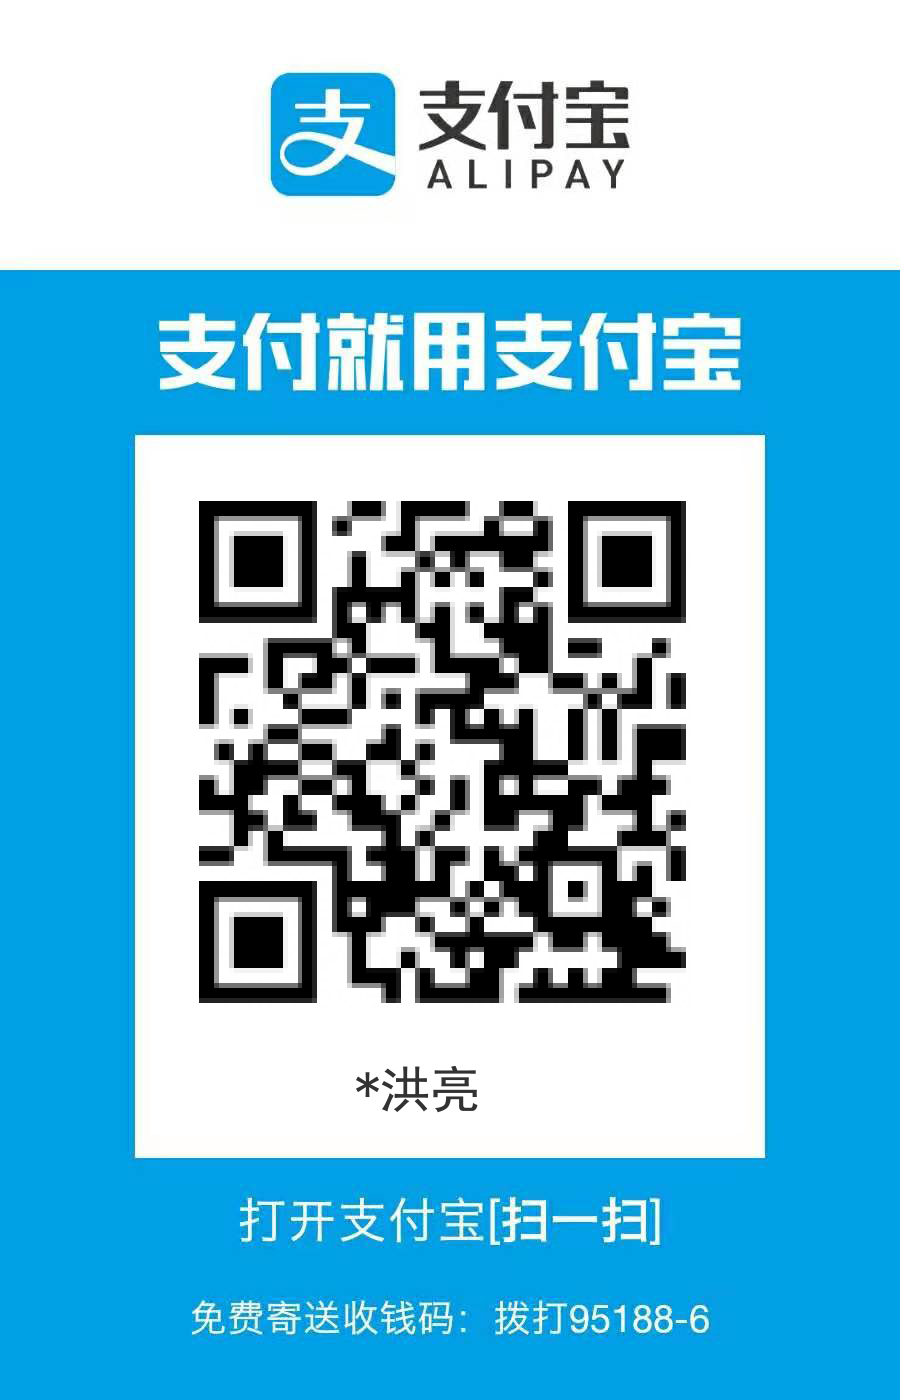
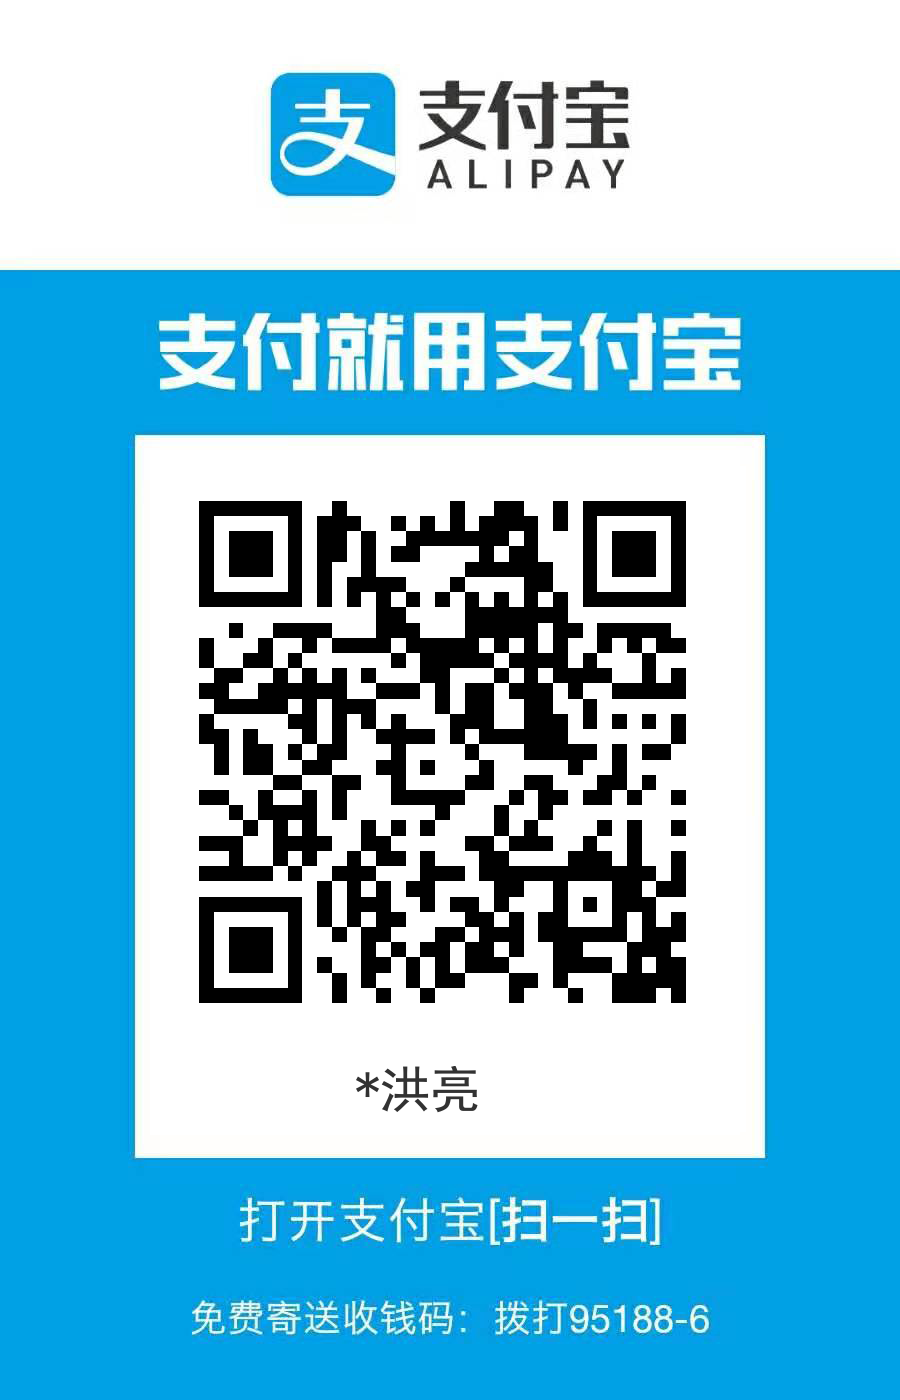
转账码

Changed region(s): [[0.2178, 0.3379, 0.7778, 0.7371]]

diff --git a/小爬虫/转账码生成/银行卡转账码/spider.py b/小爬虫/转账码生成/银行卡转账码/spider.py
@@ -155,31 +155,31 @@ class Spider:
     def run(self):
         # 隐藏卡号url
         # cardID 隐藏卡号 获取方法  https://zhuanlan.zhihu.com/p/65495172
-        # content = ['621492***0478', 'CEB', '何振华', '浦发银行', '1912051695611910620']
-        # _url = f'https://www.alipay.com/?appId=09999988&actionType=toCard&sourceId=bill&cardNo={content[0]}&' \
-        #        f'bankAccount={content[2]}&money=&amount=&bankMark={content[1]}&bankName={content[3]}&cardIndex={content[4]}&cardNoHidden=true&cardChannel=HISTORY_CARD&orderSource=from'
-        # print(_url)
+        content = ['621468***9469', 'BJBANK', '陈丽丽', '北京银行', '1603271394329096300']
+        _url = f'https://www.alipay.com/?appId=09999988&actionType=toCard&sourceId=bill&cardNo={content[0]}&' \
+               f'bankAccount={content[2]}&money=&amount=&bankMark={content[1]}&bankName={content[3]}&cardIndex={content[4]}&cardNoHidden=true&cardChannel=HISTORY_CARD&orderSource=from'
+        print(_url)
 
         # 普通转账url
-        content = self.read_txt()
+        # content = self.read_txt()
         # 新接口
-        _url = f'https://ds.alipay.com/?from=mobilecodec&scheme=alipays%3A%2F%2Fplatformapi%2Fstartapp%3FappId%3D20000200' \
-               f'%26actionType%3DtoCard%26sourceId=bill%26cardNo={content[1]}%26bankAccount={content[0]}%0A%26money=' \
-               f'%26amount=%26bankMark={content[3]}%26bankName={content[4]}%26cardNoHidden=true%26cardChannel=HISTORY_CARD%26orderSource=from'
-
+        # _url = f'https://ds.alipay.com/?from=mobilecodec&scheme=alipays%3A%2F%2Fplatformapi%2Fstartapp%3FappId%3D20000200' \
+        #        f'%26actionType%3DtoCard%26sourceId=bill%26cardNo={content[1]}%26bankAccount={content[0]}%0A%26money=' \
+        #        f'%26amount=%26bankMark={content[3]}%26bankName={content[4]}%26cardNoHidden=true%26cardChannel=HISTORY_CARD%26orderSource=from'
+        # 旧接口
         # _url = 'https://www.alipay.com/?appId=09999988&actionType=toCard&sourceId=bill&cardNo={}&bankAccount={}&' \
         #        'money=&amount=&bankMark={}&bankName={}&orderSource='.format(content[1], content[0], content[3], content[4])
-        print(_url)
+        # print(_url)
         # _url = quote(_url, string.printable)
         # print(_url)
-        _url = 'http://39.100.241.186/alipay/872dc84414ca11ea9aec28d2447ab52e'
+        _url = 'http://www.dongdongmeiche.com/alipay/6173c10d1d5911ea9aec28d2447ab52e'
 
         # 百度长链接转换短链接
-        # short_link = self.get_url(_url)
-        # print(f'百度短链：{short_link}')
+        short_link = self.get_url(_url)
+        print(f'百度短链：{short_link}')
 
         # 缩短网址 http://mrw.so/api.html
-        short_link = self._get_url(_url)
+        # short_link = self._get_url(_url)
 
         # 短链接生成二维码
         self.code_generate(short_link)
